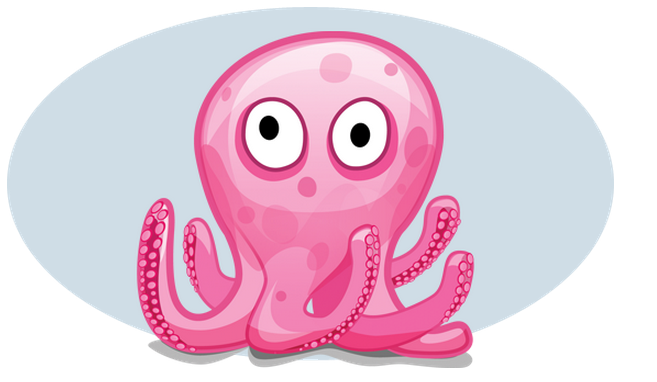
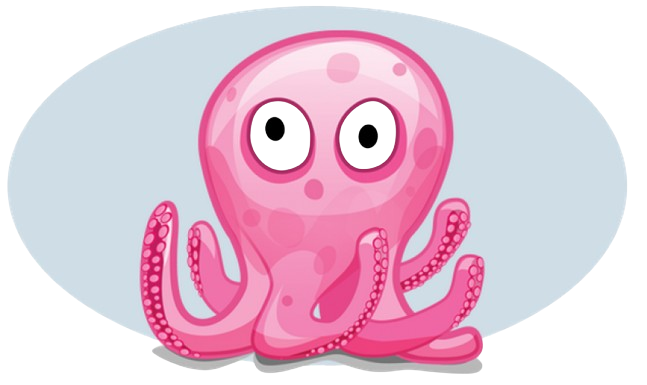
Design da versão default

diff --git a/components/FormPolvoDefault.vue b/components/FormPolvoDefault.vue
@@ -1,0 +1,89 @@
+<script setup>
+    import { ref, onMounted } from 'vue';
+
+    const option1 = ref('');
+    const option2 = ref('');
+    const selectedOption = ref('');
+    const loading = ref(false);
+
+    const submitForm = () => {
+        loading.value = true;
+        const randomTime = Math.floor(Math.random() * 1000) + 500;
+
+        setTimeout(() => {
+            loading.value = false;
+            selectedOption.value = Math.random() < 0.5 ? option1.value : option2.value;
+        }, randomTime);
+    }
+</script>
+
+<template>
+  <div class="app-form">
+    <form @submit.prevent="submitForm">
+
+        <!-- Exibe quando não há resposta selecionada -->
+        <div class="app-options" v-show="!selectedOption">
+            <div class="app-option-container">
+                <div class="app-option-input">
+                  <input
+                      type="text"
+                      id="option1"
+                      v-model="option1"
+                      placeholder="Opção 1"
+                      maxlength="100"
+                      required
+                  >
+                </div>
+                <p>vs.</p>
+                <div class="app-option-input">
+                    <input
+                      type="text"
+                      id="option2"
+                      v-model="option2"
+                      placeholder="Opção 2"
+                      maxlength="100"
+                      required
+                    >
+                </div>
+            </div>
+
+            <button class="button" type="submit" :disabled="loading">
+                Adivinhar
+            </button>
+
+            <div v-if="loading">
+                <p style="margin: 22px 0 52px 0;">Estou pensando...</p>
+            </div>
+        </div>
+
+        <!-- Exibe quando há resposta selecionada -->
+        <div
+            v-if="!!selectedOption && !loading"
+            class="app-result"
+        >
+            <div class="app-result-selectedOption">
+                <b>{{ option1 }}</b> vs. <b>{{ option2 }}</b>
+            </div>
+
+            <p>O polvo disse:</p>
+            
+            <div class="app-result-selectedOption">
+                <b style="width: 100%;">{{ selectedOption }}</b>
+            </div>
+
+            <button
+                class="button"
+                type="button"
+                @click="selectedOption = ''"
+            >
+                Tentar de novo
+            </button>
+        </div>
+
+    </form>
+  </div>
+</template>
+
+<style scoped>
+@import '../assets/sass/FormPolvoDefault.scss';
+</style>

diff --git a/assets/sass/FormPolvoDefault.scss b/assets/sass/FormPolvoDefault.scss
@@ -3,7 +3,7 @@
     display: flex;
     justify-content: center;
     align-items: center;
-    margin-top: 20px;
+    margin-top: 40px;
 }
 
 form {
@@ -11,7 +11,7 @@ form {
     flex-direction: column;
     align-items: center;
     width: 100%;
-    max-width: 400px;
+    max-width: 480px;
 }
 
 .app-options {
@@ -19,19 +19,22 @@ form {
     flex-direction: column;
     justify-content: center;
     align-items: center;
-    margin-bottom: 32px;
+    margin-bottom: 16px;
     width: 100%;
 
     p {
         margin: 0 10px;
+        font-size: 18px;
+        font-weight: bold;
     }
 }
 
 .app-option-container {
     width: 100%;
     display: flex;
-    flex-direction: column;
+    flex-direction: row;
     align-items: center;
+    justify-content: center;
 }
 
 .app-option-input {
@@ -47,17 +50,25 @@ form {
     align-items: center;
     width: 92%;
     margin-bottom: 20px;
-    word-break: break-all;
 
     &-selectedOption {
-        text-align: center;
         margin: 0;
-        padding: 12px;
+        padding: 16px;
         font-size: 24px;
-        font-weight: bold;
-        background-color: #ece1e9;
+        background-color: #fff;
         border-radius: 6px;
-        min-width: 100%;
+        width: calc(100% - 32px);
+        display: flex;
+        align-items: flex-start;
+        justify-content: center;
+        word-break: keep-all;
+
+        b {
+            margin: 0px 8px;
+            width: calc(50% - 13px);
+            text-align: center;
+            word-break: break-word;
+        }
     }
 }
 
@@ -68,36 +79,39 @@ label {
 
 input {
     width: 100%;
-    padding: 10px;
+    padding: 12px 20px;
     border: 1px solid #ccc;
     border-radius: 5px;
-    margin-bottom: 8px;
+    font-size: 18px;
 }
 
 .button {
-    padding: 10px 40px;
-    margin-bottom: 24px;
-    background-color: #cf417c;
+    padding: 16px;
+    margin: 24px 0px ;
+    background-color: #D63F8C;
     color: #fff;
     border: none;
     border-radius: 5px;
     cursor: pointer;
     transition: all ease-in-out 300ms;
+    width: 100%;
+    font-weight: bold;
+    font-size: 18px;
 
     &:hover {
-        background-color: #c52266;
+        background-color: #b61f6d;
     }
 }
 
 .button--outline {
     border: none;
     background-color: transparent;
-    color: #cf417c;
+    color: #D63F8C;
     margin-top: 4px;
     cursor: pointer;
 
     &:hover {
-        color: #c52266;
+        color: #b61f6d;
     }   
 }
 

diff --git a/assets/sass/FormPolvoMultiChoices.scss b/assets/sass/FormPolvoMultiChoices.scss
@@ -1,0 +1,107 @@
+
+.app-form {
+    display: flex;
+    justify-content: center;
+    align-items: center;
+    margin-top: 20px;
+}
+
+form {
+    display: flex;
+    flex-direction: column;
+    align-items: center;
+    width: 100%;
+    max-width: 400px;
+}
+
+.app-options {
+    display: flex;
+    flex-direction: column;
+    justify-content: center;
+    align-items: center;
+    margin-bottom: 32px;
+    width: 100%;
+
+    p {
+        margin: 0 10px;
+    }
+}
+
+.app-option-container {
+    width: 100%;
+    display: flex;
+    flex-direction: column;
+    align-items: center;
+}
+
+.app-option-input {
+    width: 100%;
+    display: flex;
+    justify-content: center;
+}
+
+.app-result {
+    display: flex;
+    flex-direction: column;
+    padding: 4px;
+    align-items: center;
+    width: 92%;
+    margin-bottom: 20px;
+    word-break: break-all;
+
+    &-selectedOption {
+        text-align: center;
+        margin: 0;
+        padding: 12px;
+        font-size: 24px;
+        font-weight: bold;
+        background-color: #ece1e9;
+        border-radius: 6px;
+        min-width: 100%;
+    }
+}
+
+label {
+    font-size: 1.2em;
+    margin-bottom: 10px;
+}
+
+input {
+    width: 100%;
+    padding: 10px;
+    border: 1px solid #ccc;
+    border-radius: 5px;
+    margin-bottom: 8px;
+}
+
+.button {
+    padding: 10px 40px;
+    margin-bottom: 24px;
+    background-color: #D63F8C;
+    color: #fff;
+    border: none;
+    border-radius: 5px;
+    cursor: pointer;
+    transition: all ease-in-out 300ms;
+
+    &:hover {
+        background-color: #b61f6d;
+    }
+}
+
+.button--outline {
+    border: none;
+    background-color: transparent;
+    color: #D63F8C;
+    margin-top: 4px;
+    cursor: pointer;
+
+    &:hover {
+        color: #b61f6d;
+    }   
+}
+
+.remove-option {
+    font-size: 24px;
+    margin-bottom: 8px;
+}

diff --git a/assets/sass/app.scss b/assets/sass/app.scss
@@ -2,7 +2,7 @@
 @import url('https://fonts.googleapis.com/css2?family=Roboto:wght@300;400&display=swap');
 
 body {
-  background-color: rgb(255, 255, 255);
+  background-color: #DFE8EF;
   width: 96vw;
   margin: 48px 2vw;
 
@@ -17,6 +17,7 @@ h1 {
   font-size: 2em;
   text-align: center;
   margin-bottom: 0;
+  font-weight: 400;
 }
 
 footer {
@@ -27,7 +28,7 @@ footer {
 
   p {
     margin: 4px;
-    font-size: 14px;
+    font-size: 18px;
   }
 }
 
@@ -49,7 +50,7 @@ footer {
   right: 24px;
   
   .twitter-button {
-    background-color: #cf417c;
+    background-color: #D63F8C;
     color: #fff;
     border: none;
     border-radius: 40px;
@@ -59,7 +60,7 @@ footer {
     transition: background-color 0.3s;
     
     &:hover {
-      background-color: #c52266;
+      background-color: #b61f6d;
     }
   }
 }

diff --git a/app.vue b/app.vue
@@ -2,10 +2,11 @@
   <header class="app-header">
     <ImagePolvo />
     <h1>Pergunte ao Polvo!</h1>
-    <p class="app-header-description">Se precisar fazer uma escolha difícil, pergunte ao polvo!<br>Ele saberá a resposta certa.</p>
-    <p class="app-header-description">Coloque abaixo as opções e o polvo decidirá por você:</p>
+    <!-- <p class="app-header-description">Se precisar fazer uma escolha difícil, pergunte ao polvo!<br>Ele saberá a resposta certa.</p> -->
+    <!-- <p class="app-header-description">Coloque abaixo as opções e o polvo decidirá por você:</p> -->
   </header>
-  <FormPolvo />
+  <FormPolvoDefault />
+  <!-- <FormPolvoMultiChoices /> -->
   <footer>
     <p>Desenvolvido por <a href="https://github.com/Deustavo">deustavo</a></p>
     <p>♡ Dedicado à moonjoume ♡</p>

diff --git a/components/ImagePolvo.vue b/components/ImagePolvo.vue
@@ -9,7 +9,7 @@
 <style scoped>
     .polvo-img {
         margin: 0 0 0 28px;
-        width: 400px;
+        width: 480px;
     }
 
     @media only screen and (max-width: 768px) {

diff --git a/components/FormPolvoMultiChoices.vue b/components/FormPolvoMultiChoices.vue
@@ -100,5 +100,5 @@
 </template>
 
 <style scoped>
-@import '../assets/sass/FormPolvo.scss';
+@import '../assets/sass/FormPolvoMultiChoices.scss';
 </style>
